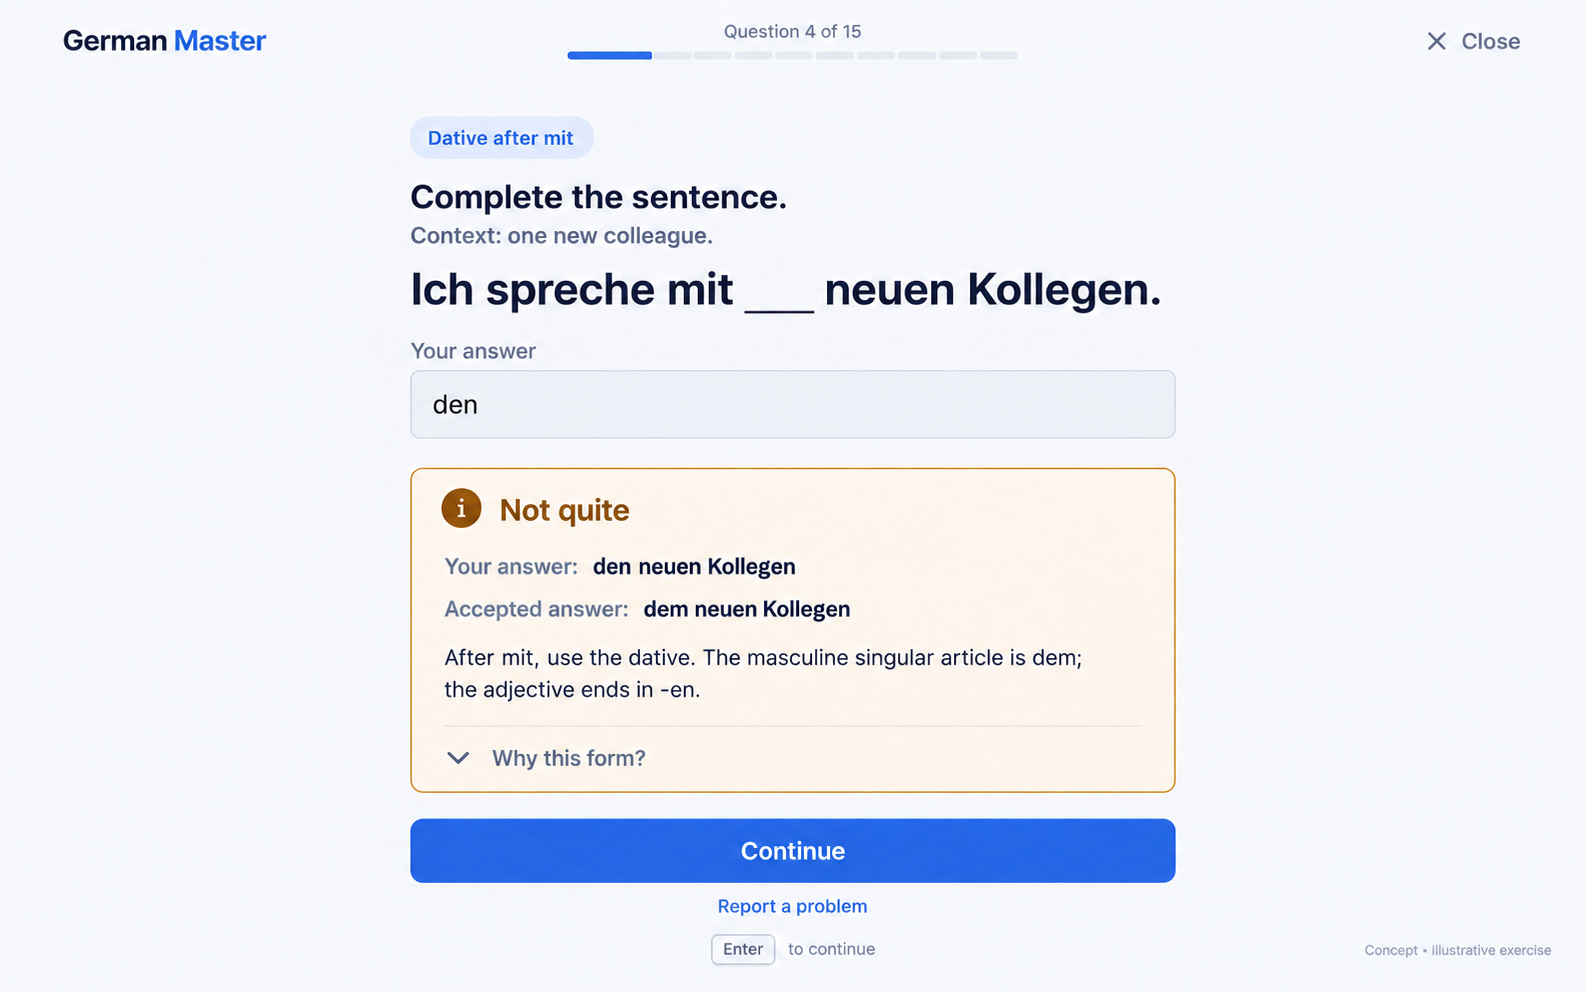
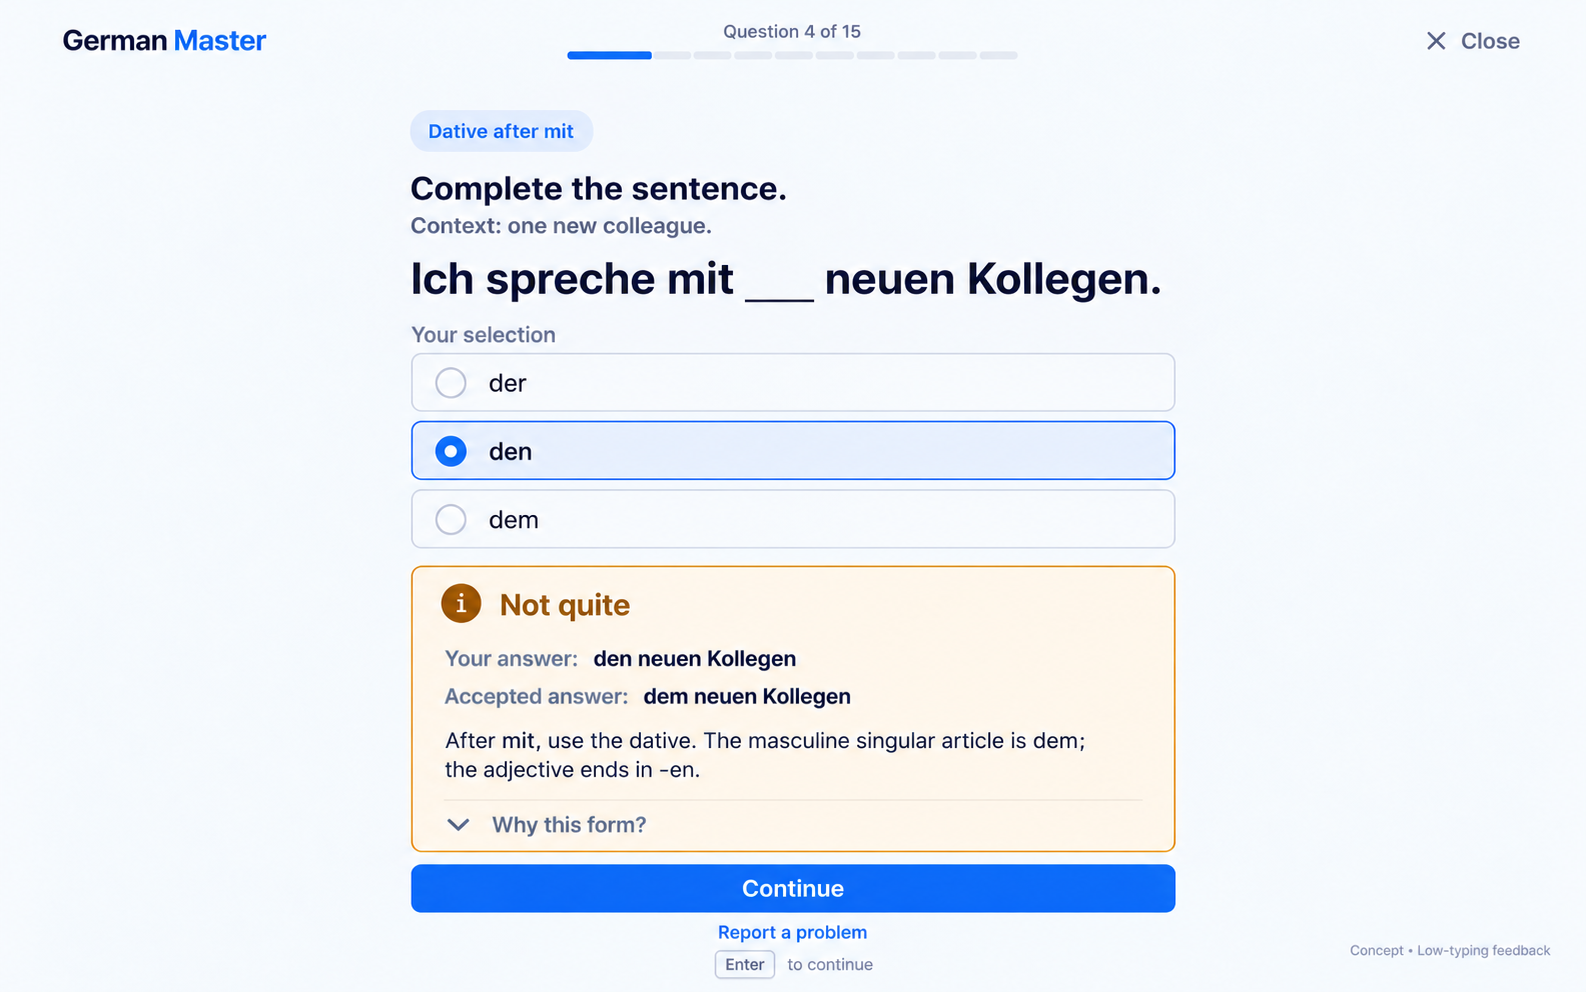
docs(design): update web and Android feedback mockups for low-typing choices

diff --git a/docs/design/mockups/README.md b/docs/design/mockups/README.md
@@ -1,6 +1,6 @@
 # German Master 2.0 visual concepts
 
-Created 3 October 2026 at the owner's request, based on [the product blueprint](../../product/blueprint.md), especially Sections 5–11. Four image boards depict six screens across web and native Android. These are proposed visual concepts with illustrative data, not screenshots of implemented 2.0 features or an approved final design.
+Created 3 October 2026 at the owner's request, based on [the product blueprint](../../product/blueprint.md), especially Sections 5–11. The web and Android S04 practice boards were updated on 9 October 2026 to replace typed answer fields with low-typing choices. Four image boards depict six screens across web and native Android. These are proposed visual concepts with illustrative data, not screenshots of implemented 2.0 features or an approved final design. The Home, Progress and Topics boards retain the original October 3 direction; see [the subsequent study workspace redesign](../study-workspace.md).
 
 ## Desktop Home — S02
 
@@ -10,9 +10,9 @@ The compact rail has Home, Progress and Topics. One primary Start practice actio
 
 ## Desktop Practice feedback — S04
 
-![Focused desktop practice showing an incorrect singular dative answer, the accepted form and a short explanation](02-web-practice-feedback-v2.png)
+![Focused desktop low-typing practice with der, den and dem choices, den selected, and incorrect-answer feedback](02-web-practice-feedback-v2.png)
 
-Practice removes the navigation rail. Feedback retains the learner's answer, names the outcome, explains the form and waits for Continue. The singular context cue is necessary: without it, `den neuen Kollegen` could be correct plural German. This illustration is not a published/reviewed exercise revision.
+Practice removes the navigation rail. The sentence uses a single-slot gap choice: the learner selects an authored option rather than typing. This checked state retains the selected `den` radio choice, names the outcome, explains the accepted `dem` form and waits for Continue. Check is explicit before feedback; no second Check action is shown after grading. The singular context cue is necessary: without it, `den neuen Kollegen` could be correct plural German. This illustration is not a published/reviewed exercise revision.
 
 ## Native Android Home, Progress and Topics — S02, S06, S08
 
@@ -22,9 +22,9 @@ The bottom navigation has exactly three destinations; Practice opens separately.
 
 ## Native Android offline feedback, dark theme — S04
 
-![Dark Android practice with saved-on-device status and explicitly provisional local feedback](04-android-offline-feedback-dark.png)
+![Dark Android low-typing practice with der, den and dem choices, dem selected, and explicitly provisional offline feedback](04-android-offline-feedback-dark.png)
 
-Saved on this device and Looks correct locally distinguish durable local work from confirmed progress. The learner can continue without a blocking sync dialog. This concept depicts the planned offline model, not an implemented offline capability.
+The native choice buttons retain the selected `dem` after an explicit Check, with no typed answer field or keyboard. The singular context matches the web example. Saved on this device and Looks correct locally distinguish durable local work from confirmed progress. The learner can continue without a blocking sync dialog. The [low-typing controls and offline paths](../../content/practice-formats.md) are implemented; this image remains an illustrative design concept rather than runtime or accessibility evidence.
 
 ## Design direction and review notes
 
@@ -32,8 +32,10 @@ Saved on this device and Looks correct locally distinguish durable local work fr
 - Outcomes have text and icons alongside color. No flags, trophies, streak pressure, mastery probabilities, countdowns or AI-chat surface.
 - The proposed layout follows the blueprint's 48px/dp control baseline and readable practice column. Raster concepts do not establish actual contrast, target sizes, keyboard behavior, text scaling, responsive reflow or TalkBack/screen-reader accessibility; those remain implementation acceptance checks.
 - Large offline status treatment and decorative icon accents are exploratory. During implementation keep sync status quiet, use consistent semantic tokens, and validate density on real device/window sizes.
-- This set covers selected core states, not all S01–S12 screens. Next design coverage should include onboarding, the unanswered practice state with keyboard, session summary, target detail and narrow-web reflow.
+- This set covers selected core states, not all S01–S12 screens. Next design coverage should include onboarding, unanswered and selected-before-Check low-typing states, word ordering and matching, session summary, target detail and narrow-web reflow. Typed controls remain for unconverted content; they are not the default direction for new practice.
 
 Generated with the built-in image-generation tool: four generation calls and one targeted edit. No CLI/API fallback or Groq calls. All final assets were copied into this repository and visually inspected for layout, navigation, copy, feedback and offline-state consistency. The unselected initial feedback draft is not included. The exact generation prompts and refinement prompt are saved in [prompts.json](prompts.json).
+
+The 9 October low-typing update used two additional built-in image edit calls, one per S04 board. Both outputs were visually inspected for choice labels, selection, singular context, feedback and visible actions. Exact edit prompts are saved in [low-typing-prompts-2026-10-09.json](low-typing-prompts-2026-10-09.json); the original prompts remain as historical provenance. No application behavior, content publication or design-acceptance gate changed.
 
 Product implementation, content review and design approval remain separate roadmap gates. The owner has authorized design/dependency changes during the hard reset; this set explores the existing blueprint direction without changing its learner scope.

diff --git a/PROGRESS.md b/PROGRESS.md
@@ -1,5 +1,12 @@
 # German Master 2.0 renovation checkpoint
 
+## Low-typing S04 mockup update — 9 October 2026
+
+- Updated the desktop feedback and native Android dark offline-feedback concept boards at the owner's request. Both now show authored der/den/dem choices with retained selection after explicit Check, replacing the obsolete typed answer fields. Android now includes the singular context cue used on web.
+- Updated the mockup collection, clarified original versus current concepts and remaining state coverage, and saved the exact two built-in image edit prompts. Visually inspected both outputs for labels, selection, German context, feedback and visible actions; documentation/link and whitespace checks pass. These are illustrative raster concepts, not runtime or accessibility acceptance.
+- M1 remains active; final both-client design/web accessibility acceptance and post-merge verification remain separate. TalkBack stays owner-accepted for now. No app code, production changes, push, merge, deployment, publication, Android release or Groq calls.
+- Commit message: `docs(design): update web and Android feedback mockups for low-typing choices`.
+
 ## PR #11 merged under owner instruction — 9 October 2026
 
 - Owner authorized merging immediately without waiting for new-head Actions. Pushed the two verified local commits, marked PR #11 ready, then merged exact head `38d6617` using a merge commit. GitHub confirms MERGED at 09:39 Europe/Berlin; merge commit `312f3a2`. Local main fast-forwarded to origin/main without discarding work.
